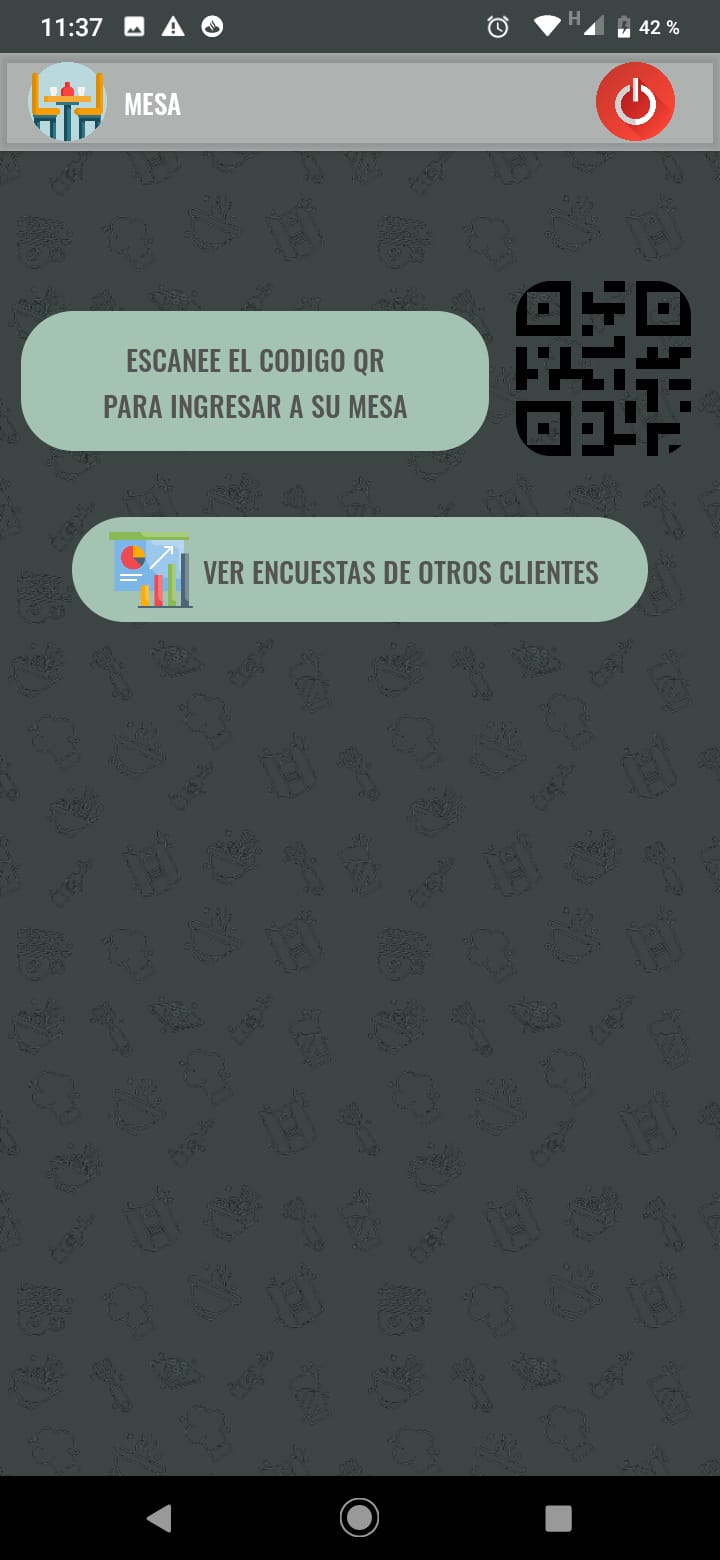
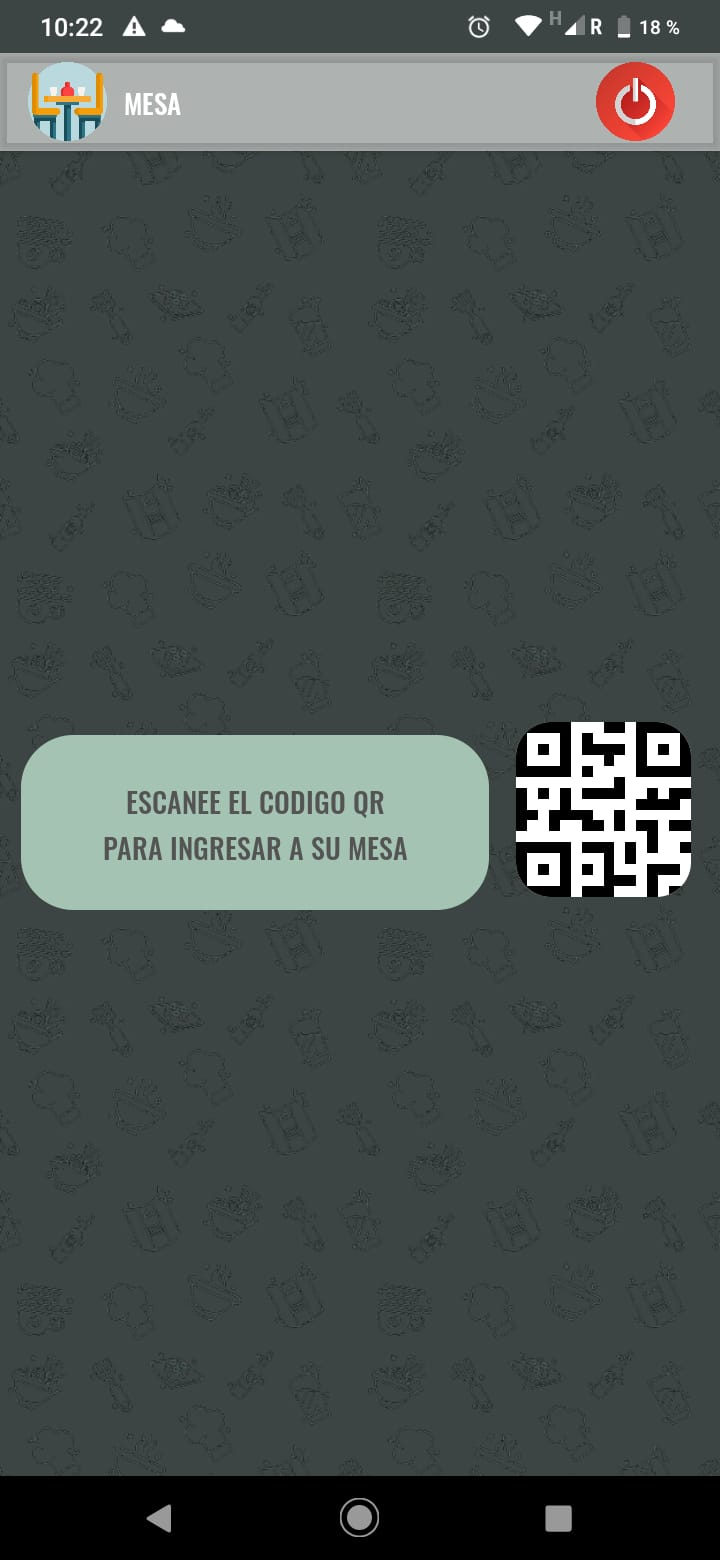
imagenes

diff --git a/losCincoTenedores-app/components/userManagement/waiterOrderManagement/WaiterOrderScreen.tsx b/losCincoTenedores-app/components/userManagement/waiterOrderManagement/WaiterOrderScreen.tsx
@@ -33,6 +33,7 @@ import {
 import { db } from "../../../App";
 import Toast from "react-native-simple-toast";
 import { sendPushNotification } from "../../pushNotification/PushNotification";
+import { splitUserFromEmail } from "../../../utils/utils";
 
 const WaiterOrder = () => {
   //CONSTANTES
@@ -210,9 +211,11 @@ const WaiterOrder = () => {
         const orderStatus: any = "";
         const status : any = "free";
         const assignedClient: any = "";
+        const survey = "no";
         await updateDoc(ref, { status: status });
         await updateDoc(ref, { orderStatus: orderStatus });
-        await updateDoc(ref, { assignedClient: assignedClient });      
+        await updateDoc(ref, { assignedClient: assignedClient });  
+        await updateDoc(ref, { survey: survey });          
       } catch (error: any) {
         Toast.showWithGravity(error.code, Toast.LONG, Toast.CENTER);
       } 
@@ -338,7 +341,7 @@ const WaiterOrder = () => {
   };
 
   const toggleModalInvoice = () => {
-    setModalInvoiceVisible(!isModalInvoiceVisible);
+    setModalInvoiceVisible(false);
   }
 
   //HEADER
@@ -558,25 +561,25 @@ const WaiterOrder = () => {
                         MESA NUMERO: {item.table}
                       </Text>
                       <Text style={styles.tableCellText}>
-                        CLIENTE: {item.client}
+                        CLIENTE: {splitUserFromEmail(item.client)}
                       </Text>
                       <Text style={styles.tableCellText}>
-                        SUBTOTAL: {item.subtotal}
+                        SUBTOTAL: $ {item.subtotal}
                       </Text>
                       <Text style={styles.tableCellText}>
-                        PROPINA: {item.tip}
+                        PROPINA: $ {item.tip}
                       </Text>
                       <Text style={styles.tableCellText}>
-                        TOTAL: {item.total}
+                        TOTAL: $ {item.total}
                       </Text>
                     </View>
                 )                
               )}
               <View style={styles.rowContainer}>
-                <TouchableOpacity onPress={() => confirmElaboration(client)}>
+                <TouchableOpacity onPress={toggleModalInvoice}>
                   <Image source={confirmIcon} style={styles.cardIcon} />
                 </TouchableOpacity>
-                <TouchableOpacity onPress={toggleModalOrderElaboration}>
+                <TouchableOpacity onPress={toggleModalInvoice}>
                   <Image source={cancelIcon} style={styles.cardIcon} />
                 </TouchableOpacity>
               </View>

diff --git a/losCincoTenedores-app/components/controlPanels/tablePanel/TablePanelScreen.tsx b/losCincoTenedores-app/components/controlPanels/tablePanel/TablePanelScreen.tsx
@@ -345,16 +345,18 @@ const TablePanel = () => {
                   <Text style={styles.buttonText}>PARA INGRESAR A SU MESA</Text>
                 </View>
               ) : (
-                <View style={styles.buttonLayoutHeader}>
-                  <Text style={styles.buttonText}>
-                    MESA NUMERO {tableNumber}
-                  </Text>
-                  <Text style={styles.buttonText}>
-                    ESCANEE EL CODIGO QR DE SU MESA
-                  </Text>
-                  <Text style={styles.buttonText}>
-                    PARA CONTINUAR
-                  </Text>
+                <View> 
+                  <View style={styles.buttonLayoutHeader}>
+                    <Text style={styles.buttonText}>
+                      MESA NUMERO {tableNumber}
+                    </Text>
+                    <Text style={styles.buttonText}>
+                      ESCANEE EL CODIGO QR DE SU MESA
+                    </Text>
+                    <Text style={styles.buttonText}>
+                      PARA CONTINUAR
+                    </Text>
+                  </View>
                 </View>
               )}
 
@@ -452,7 +454,7 @@ const TablePanel = () => {
             <Modal backdropOpacity={0.5} isVisible={isModalConfirmOrderVisible}>
           <View style={styles.modalContainer}>
             <View style={styles.modalBody}>
-              <Text style={styles.tableHeaderText}>ORDEN</Text>                
+              <Text style={styles.tableHeaderText}>PEDIDO RECIBIDO</Text>                
 
               <ScrollView>
                 {dataOrder.map((item: { id: any; name: any; amount:any }) => (

diff --git a/losCincoTenedores-app/components/userRegistration/clientRegistration/ClientRegistrationScreen.tsx b/losCincoTenedores-app/components/userRegistration/clientRegistration/ClientRegistrationScreen.tsx
@@ -170,13 +170,17 @@ const ClientRegistration = () => {
           Toast.CENTER);
         return;
       }
-      if(values.dni.length!==8){
-        Toast.showWithGravity(
-          "El DNI debe tener 8 caracteres",
-          Toast.LONG,
-          Toast.CENTER);
-        return;
-      }      
+      if(values.clientType === "Registrado") 
+      {
+        if(values.dni.length!==8){
+          Toast.showWithGravity(
+            "El DNI debe tener 8 caracteres",
+            Toast.LONG,
+            Toast.CENTER);
+          return;
+        }
+
+      }     
       if(!values.email.includes("@")){
         Toast.showWithGravity(
           "El correo electrónico no es válido",

diff --git a/losCincoTenedores-app/components/controlPanels/tablePanel/StyleTablePanelScreen.tsx b/losCincoTenedores-app/components/controlPanels/tablePanel/StyleTablePanelScreen.tsx
@@ -58,6 +58,20 @@ export default StyleSheet.create({
         alignContent: 'center',
         alignItems: 'center'
     },
+    orderLayoutHeader: {
+        backgroundColor: '#A4C3B2',
+        borderColor: '#A4C3B2',
+        marginTop: 20,
+        margin: 5,
+        width: "80%",
+        height: 100,
+        padding: 15,
+        borderRadius: 30,
+        borderWidth: 0,
+        justifyContent: 'center',
+        alignContent: 'center',
+        alignItems: 'center'
+    },
     buttonLayout: {
         backgroundColor: '#A4C3B2',
         borderColor: '#A4C3B2',

diff --git a/losCincoTenedores-app/components/userRegistration/tableRegistration/TableRegistrationScreen.tsx b/losCincoTenedores-app/components/userRegistration/tableRegistration/TableRegistrationScreen.tsx
@@ -122,6 +122,7 @@ const TableRegistration = () => {
           status: "free",
           assignedClient: "",
           orderStatus: "waitingOrder",
+          survey: "no",
           creationDate:new Date()          
         });        
         Toast.showWithGravity(
